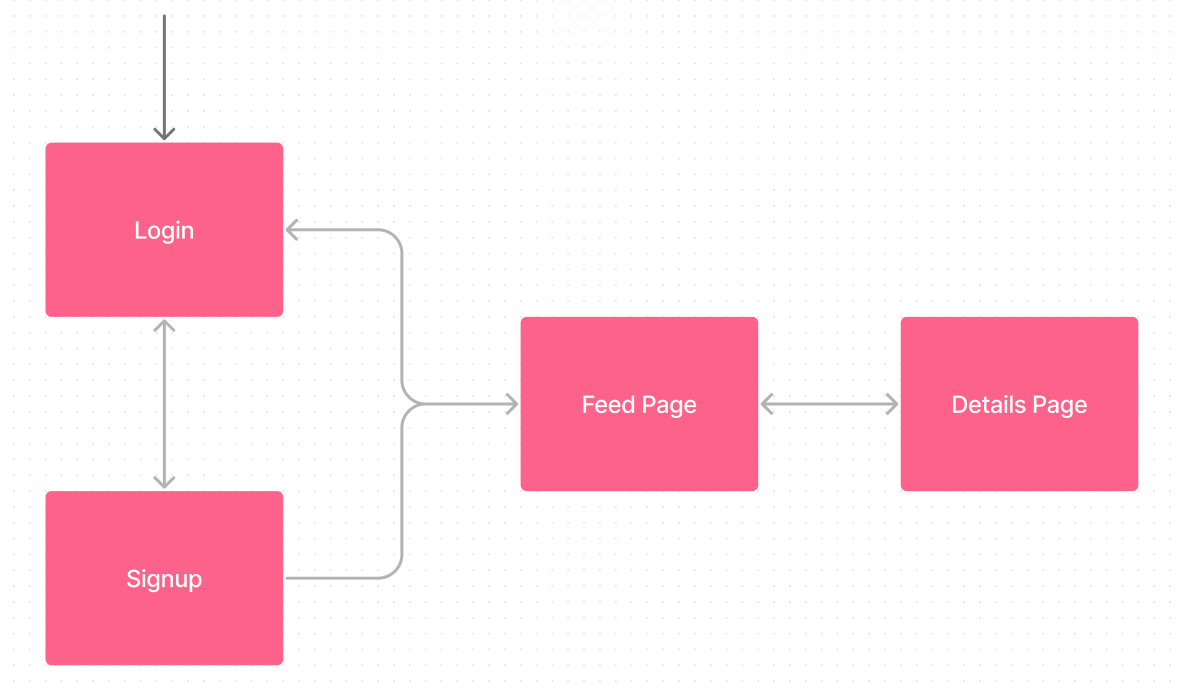
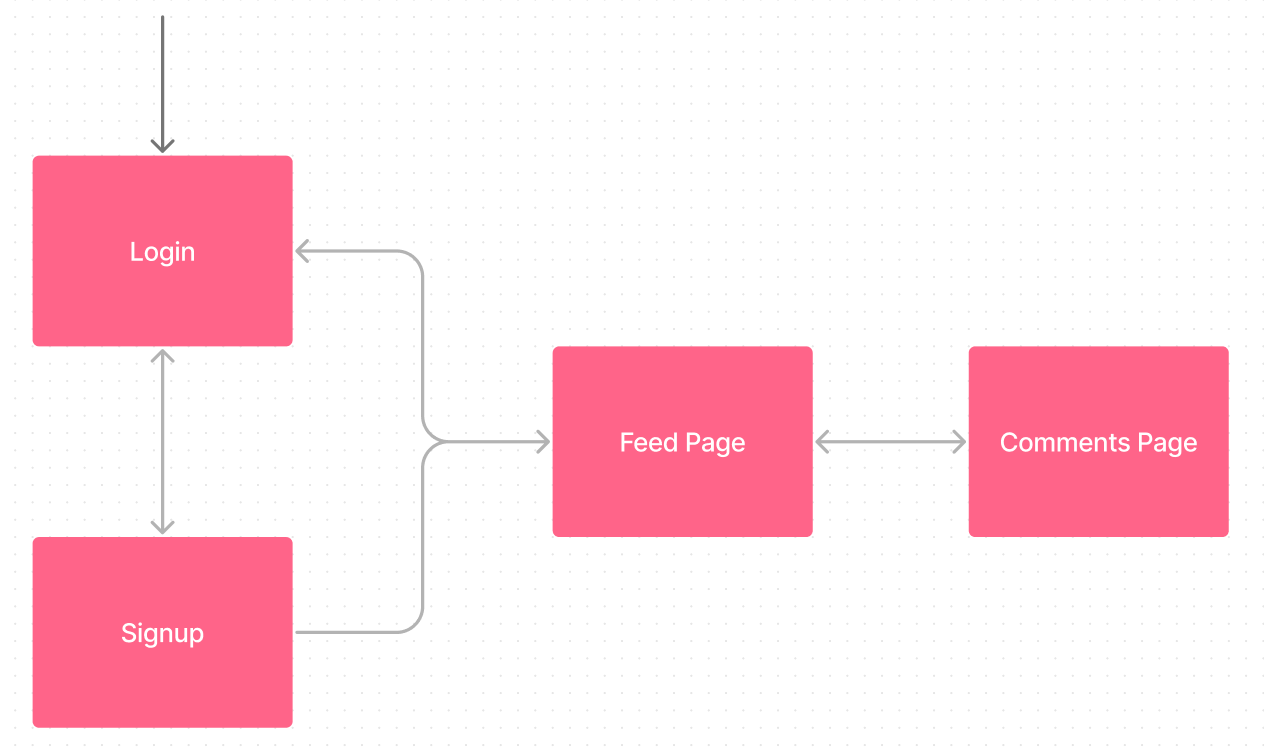
[raw] renaming detailspage to commentspage

diff --git a/labeddit/src/pages/CommentsPage/index.js b/labeddit/src/pages/CommentsPage/index.js
@@ -7,19 +7,19 @@ import { urlPosts } from '../../constants/constants';
 import {
     CreateComment,
     DeleteComment,
-    editComment,
-    likeAndDislikeComment,
+    EditComment,
+    LikeAndDislikeComment,
 } from '../../services/api';
 import { useForm } from '../../hooks/useForm';
 import { Error, Loading } from '../../components';
 
-export const DetailsPage = () => {
+export const CommentsPage = () => {
     const navigator = useNavigate();
     useProtectPage(navigator);
 
     const params = useParams();
     const id = params.id;
-    const urlDetails = `${urlPosts}/${id}`;
+    const urlComments = `${urlPosts}/${id}`;
 
     const context = useContext(GlobalContext);
     const {
@@ -44,7 +44,7 @@ export const DetailsPage = () => {
     // Novo estado para o id do post durante a edição:
     const [idCommentToEdit, setIdCommentToEdit] = useState('');
 
-    const [data, isLoading, isError] = useRequestData(urlDetails, isUpdate);
+    const [data, isLoading, isError] = useRequestData(urlComments, isUpdate);
 
     useEffect(() => {
         if (posts.length === 0 && !isLoading && !isError && data) {
@@ -142,7 +142,7 @@ export const DetailsPage = () => {
                 content: editingContent, // Usar o estado de edição
             };
 
-            await editComment(body, commentId);
+            await EditComment(body, commentId);
 
             setIsEditing(false);
             setIdCommentToEdit('');
@@ -155,19 +155,19 @@ export const DetailsPage = () => {
 
     const handleLike = async (commentId) => {
         const body = { like: true };
-        await likeAndDislikeComment(body, commentId);
+        await LikeAndDislikeComment(body, commentId);
         setIsUpdate(!isUpdate);
     };
 
     const handleDislike = async (commentId) => {
         const body = { like: false };
-        await likeAndDislikeComment(body, commentId);
+        await LikeAndDislikeComment(body, commentId);
         setIsUpdate(!isUpdate);
     };
 
     return (
         <div>
-            <p>DetailsPage</p>
+            <p>Comments Page</p>
             {/* {posts && console.log(posts)} */}
             <form onSubmit={handleSubmit}>
                 <textarea

diff --git a/labeddit/src/pages/FeedPage/index.js b/labeddit/src/pages/FeedPage/index.js
@@ -7,12 +7,12 @@ import { useForm } from '../../hooks/useForm';
 import {
     CreatePost,
     DeletePost,
-    editPost,
-    likeAndDislikePost,
+    EditPost,
+    LikeAndDislikePost,
 } from '../../services/api';
 import GlobalContext from '../../contexts/GlobalContext';
 import { Error, Loading } from '../../components';
-import { goToDetailsPage } from '../../routes/coordinator';
+import { goToCommentsPage } from '../../routes/coordinator';
 
 export const FeedPage = () => {
     const navigator = useNavigate();
@@ -122,7 +122,7 @@ export const FeedPage = () => {
                 content: editingContent, // Usar o estado de edição
             };
 
-            await editPost(body, postId);
+            await EditPost(body, postId);
 
             setIsEditing(false);
             setIdPostToEdit('');
@@ -135,13 +135,13 @@ export const FeedPage = () => {
 
     const handleLike = async (postId) => {
         const body = { like: true };
-        await likeAndDislikePost(body, postId);
+        await LikeAndDislikePost(body, postId);
         setIsUpdate(!isUpdate);
     };
 
     const handleDislike = async (postId) => {
         const body = { like: false };
-        await likeAndDislikePost(body, postId);
+        await LikeAndDislikePost(body, postId);
         setIsUpdate(!isUpdate);
     };
 
@@ -245,10 +245,10 @@ export const FeedPage = () => {
                             <p>{post.id}</p>
                             <button
                                 onClick={() => {
-                                    goToDetailsPage(navigator, post.id);
+                                    goToCommentsPage(navigator, post.id);
                                 }}
                             >
-                                + DETALHES
+                                Comentários
                             </button>
                             <hr />
                         </div>

diff --git a/labeddit/src/pages/LoginPage/index.js b/labeddit/src/pages/LoginPage/index.js
@@ -6,7 +6,7 @@ import { useNavigate } from 'react-router-dom';
 export const LoginPage = () => {
     const navigator = useNavigate();
 
-    const [form, onChange, resetForm] = useForm({
+    const [form, setForm, onChange, resetForm] = useForm({
         email: '',
         password: '',
     });
@@ -44,7 +44,6 @@ export const LoginPage = () => {
             // console.log(error.response.data[0].message);
 
             // console.log('Resposta de erro:', error);
-            
 
             // error.request.response && console.log(error.request.response);
 
@@ -62,9 +61,6 @@ export const LoginPage = () => {
                     error.response.data[0].message
                 );
         }
-
-        // =============
-        // =============
     };
 
     return (
@@ -110,6 +106,20 @@ export const LoginPage = () => {
                 <br />
                 <button type="button" onClick={resetForm}>
                     Resetar Formulário
+                </button>
+
+                <h3>Conta de teste</h3>
+                <p>amanda@gmail.com</p>
+                <p>Amanda@123</p>
+                <button
+                    onClick={() => {
+                        setForm({
+                            email: 'amanda@gmail.com',
+                            password: 'Amanda@123',
+                        });
+                    }}
+                >
+                    Autopreencher
                 </button>
             </form>
         </div>

diff --git a/labeddit/src/services/api.js b/labeddit/src/services/api.js
@@ -71,7 +71,7 @@ export const DeleteComment = async (id) => {
     }
 };
 
-export const editPost = async (body, id) => {
+export const EditPost = async (body, id) => {
     try {
         const { data } = await axios.put(`${BASE_URL}posts/${id}`, body, {
             headers: {
@@ -84,7 +84,7 @@ export const editPost = async (body, id) => {
     }
 };
 
-export const editComment = async (body, id) => {
+export const EditComment = async (body, id) => {
     try {
         const { data } = await axios.put(`${BASE_URL}comments/${id}`, body, {
             headers: {
@@ -97,7 +97,7 @@ export const editComment = async (body, id) => {
     }
 };
 
-export const likeAndDislikePost = async (body, id) => {
+export const LikeAndDislikePost = async (body, id) => {
     try {
         const { data } = await axios.put(`${BASE_URL}posts/${id}/like`, body, {
             headers: {
@@ -110,7 +110,7 @@ export const likeAndDislikePost = async (body, id) => {
     }
 };
 
-export const likeAndDislikeComment = async (body, id) => {
+export const LikeAndDislikeComment = async (body, id) => {
     try {
         const { data } = await axios.put(
             `${BASE_URL}comments/${id}/like`,

diff --git a/labeddit/src/routes/Router.js b/labeddit/src/routes/Router.js
@@ -1,14 +1,14 @@
 import { BrowserRouter, Routes, Route } from 'react-router-dom';
 import { Header } from '../components';
+import { PATH } from '../constants/constants';
 
 import {
     LoginPage,
     SignupPage,
     FeedPage,
-    DetailsPage,
+    CommentsPage,
     ErrorsPage,
 } from '../pages';
-import { PATH } from '../constants/constants';
 
 export const Router = () => {
     return (
@@ -19,7 +19,7 @@ export const Router = () => {
                 <Route path="/" element={<LoginPage />} />
                 <Route path="/signup" element={<SignupPage />} />
                 <Route path="/feedpage" element={<FeedPage />} />
-                <Route path="/details/:id" element={<DetailsPage />} />
+                <Route path="/comments/:id" element={<CommentsPage />} />
                 <Route path="*" element={<ErrorsPage />} />
             </Routes>
         </BrowserRouter>

diff --git a/labeddit/src/routes/coordinator.js b/labeddit/src/routes/coordinator.js
@@ -10,8 +10,8 @@ export const goToFeedPage = (navigator) => {
     navigator('/feedpage');
 };
 
-export const goToDetailsPage = (navigator, id) => {
-    navigator(`/details/${id}`);
+export const goToCommentsPage = (navigator, id) => {
+    navigator(`/comments/${id}`);
 };
 
 export const goToErrorsPage = (navigator) => {

diff --git a/labeddit/src/hooks/useForm.js b/labeddit/src/hooks/useForm.js
@@ -9,5 +9,5 @@ export const useForm = (initialState) => {
     const resetForm = () => {
         setForm(initialState);
     };
-    return [form, onChange, resetForm];
+    return [form, setForm, onChange, resetForm];
 };

diff --git a/labeddit/src/pages/index.js b/labeddit/src/pages/index.js
@@ -1,4 +1,4 @@
-export * from './DetailsPage';
+export * from './CommentsPage';
 export * from './ErrorsPage';
 export * from './FeedPage';
 export * from './LoginPage';

diff --git a/README.md b/README.md
@@ -4,4 +4,4 @@
 
 ## Fluxograma das Páginas
 
-![Alt text](./labeddit/src/assets/images/flow_pages.png)
+![Fluxograma de Páginas](./labeddit/src/assets/images/flow_pages.png)
